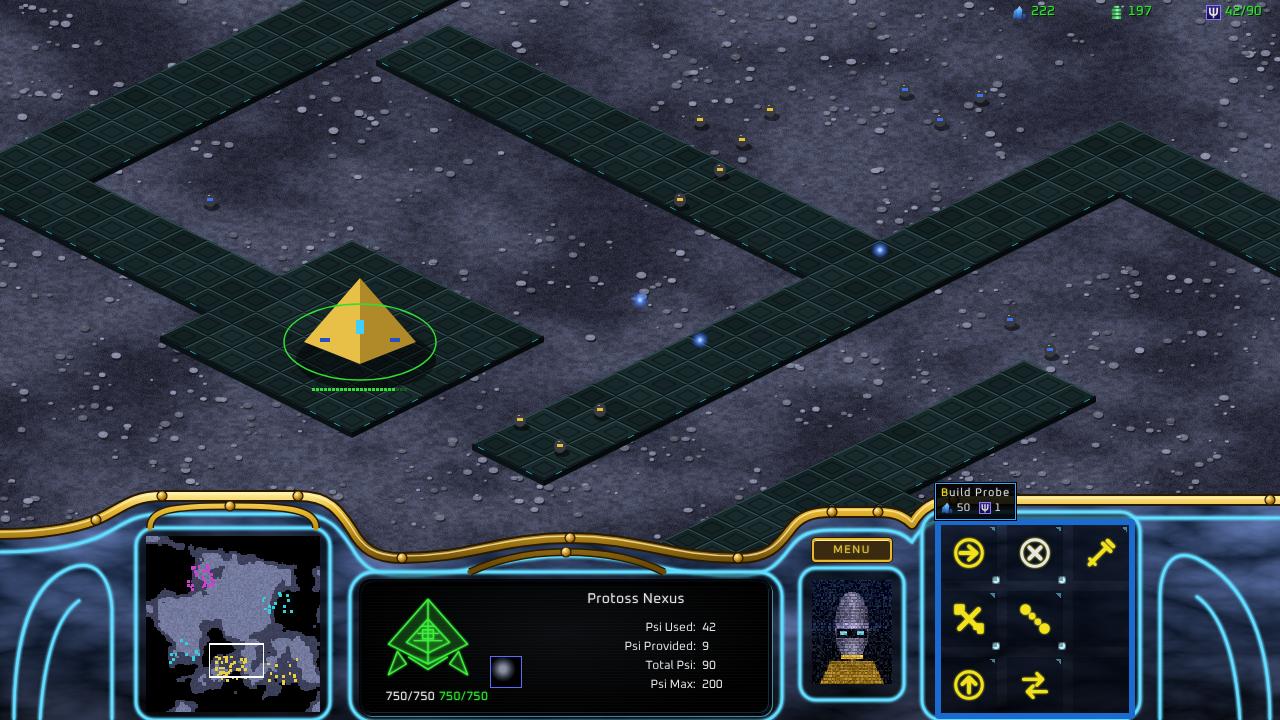
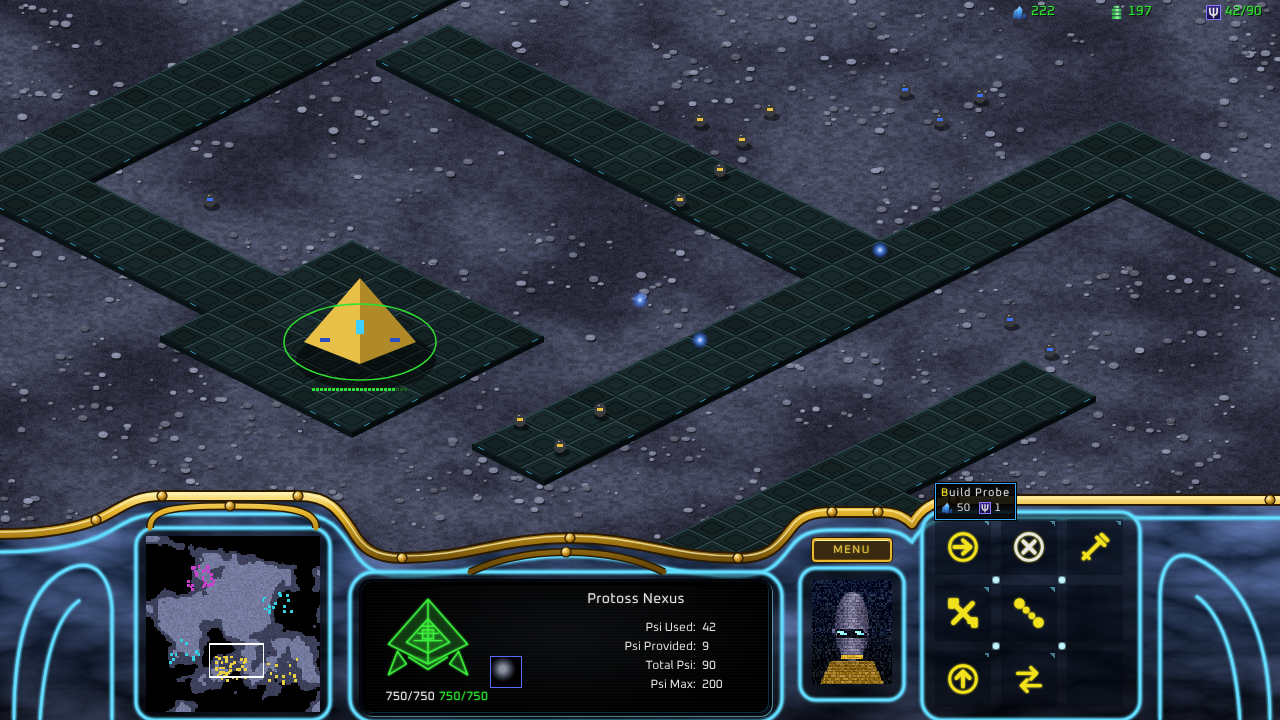
SC1 design system: components stopped at round limit
Claude-Session: https://claude.ai/code/session_01U4BJEL1DunDjrFQzZedLxi

Changed region(s): [[0.625, 0.7028, 0.9062, 1.0], [0.8125, 0.8556, 0.8438, 0.8861]]

diff --git a/sc1-design-system/js/scene.js b/sc1-design-system/js/scene.js
@@ -692,15 +692,15 @@
   var DEFS_COMMON =
     '<filter id="grime" x="0" y="0" width="1" height="1" color-interpolation-filters="sRGB">' +
       '<feTurbulence type="fractalNoise" baseFrequency="0.016 0.04" numOctaves="4" seed="4" result="a"/>' +
-      '<feColorMatrix in="a" type="matrix" values="0 0 0 0 0.52  0 0 0 0 0.38  0 0 0 0 0.26  -2.6 0 0 0 1.7" result="blot"/>' +
+      '<feColorMatrix in="a" type="matrix" values="0 0 0 0 0.5  0 0 0 0 0.42  0 0 0 0 0.34  -2.6 0 0 0 1.55" result="blot"/>' +
       '<feTurbulence type="fractalNoise" baseFrequency="0.035 0.09" numOctaves="3" seed="21" result="b"/>' +
-      '<feColorMatrix in="b" type="matrix" values="0 0 0 0 0.62  0 0 0 0 0.34  0 0 0 0 0.16  -4 0 0 0 2.25" result="rust"/>' +
+      '<feColorMatrix in="b" type="matrix" values="0 0 0 0 0.5  0 0 0 0 0.36  0 0 0 0 0.26  -4 0 0 0 1.95" result="rust"/>' +
       '<feTurbulence type="fractalNoise" baseFrequency="0.85" numOctaves="2" seed="9" result="g"/>' +
       '<feColorMatrix in="g" type="matrix" values="0 0 0 0 0.3  0 0 0 0 0.26  0 0 0 0 0.22  -1.7 0 0 0 1.1" result="grain"/>' +
       '<feMerge><feMergeNode in="blot"/><feMergeNode in="rust"/><feMergeNode in="grain"/></feMerge></filter>' +
     '<filter id="grimeHeavy" x="0" y="0" width="1" height="1" color-interpolation-filters="sRGB">' +
       '<feTurbulence type="fractalNoise" baseFrequency="0.05 0.12" numOctaves="4" seed="13" result="a"/>' +
-      '<feColorMatrix in="a" type="matrix" values="0 0 0 0 0.35  0 0 0 0 0.27  0 0 0 0 0.2  -2.2 0 0 0 1.75" result="blot"/>' +
+      '<feColorMatrix in="a" type="matrix" values="0 0 0 0 0.35  0 0 0 0 0.27  0 0 0 0 0.2  -2.2 0 0 0 1.45" result="blot"/>' +
       '<feTurbulence type="fractalNoise" baseFrequency="0.9" numOctaves="2" seed="3" result="g"/>' +
       '<feColorMatrix in="g" type="matrix" values="0 0 0 0 0.25  0 0 0 0 0.22  0 0 0 0 0.2  -2 0 0 0 1.35" result="grain"/>' +
       '<feMerge><feMergeNode in="blot"/><feMergeNode in="grain"/></feMerge></filter>' +

diff --git a/sc1-design-system/css/patterns.css b/sc1-design-system/css/patterns.css
@@ -345,7 +345,7 @@ html, body.pt-page { height: 100%; overflow: hidden; background: var(--sc-void);
   line-height: 20px;
   text-shadow: 0 0 2px rgba(240, 208, 64, 0.55);
 }
-[data-race="protoss"] .pt-cmdcard.sc-cmdcard { padding: 0; gap: 10px; background: none; box-shadow: none; }
+[data-race="protoss"] .pt-cmdcard.sc-cmdcard { padding: 0; gap: 10px; border: 0; border-radius: 0; background: none; box-shadow: none; }
 [data-race="protoss"] .pt-cmdcard .sc-cmd,
 [data-race="protoss"] .pt-cmdcard .sc-cmd--empty { background: rgba(0, 6, 18, 0.35); box-shadow: none; }
 [data-race="protoss"] .pt-screen__queue {
@@ -370,7 +370,7 @@ html, body.pt-page { height: 100%; overflow: hidden; background: var(--sc-void);
   box-shadow: 0 0 0 1px #120204;
   line-height: 20px;
 }
-[data-race="zerg"] .pt-cmdcard.sc-cmdcard { background: none; box-shadow: none; }
+[data-race="zerg"] .pt-cmdcard.sc-cmdcard { padding: 6px; gap: 6px; border: 0; background: none; box-shadow: none; }
 [data-race="zerg"] .pt-cmdcard .sc-cmd { box-shadow: 0 0 0 1px #5a2a20, inset 0 0 0 1px #000; }
 
 /* ---------- GAME MENU (plassering; utseendet kommer fra .sc-dialog--blue) ---------- */

diff --git a/sc1-design-system/TASKS.md b/sc1-design-system/TASKS.md
@@ -3,7 +3,7 @@
 Status: [ ] gjenstår · [~] pågår · [x] godkjent · [!] stoppet ved rundegrense
 
 - [x] 0. Referansebilder fra Håkon → .kritikk/referanse/sc1/ + MALESTOKK.md + css/tokens.css (orkestrator)
-- [~] A. Komponenter: css/components.css + components.html (knapper, dialoger, paneler, kommandokort, ressurslinje, wireframe, LED, skjema) – R1: rød dialog GODKJENT; blå meny (P7=6), Terran-metall (P3=5), Protoss (P3=4) AVVIST · R2 AVVIST (Terran P3=7, blå P7=7, Protoss P3=6) → runde 3 (siste)
+- [!] A. Komponenter: css/components.css + components.html (knapper, dialoger, paneler, kommandokort, ressurslinje, wireframe, LED, skjema) – R1: rød dialog GODKJENT; blå meny (P7=6), Terran-metall (P3=5), Protoss (P3=4) AVVIST · R2 AVVIST (Terran P3=7, blå P7=7, Protoss P3=6) · R3 AVVIST (blå P2=6, Terran P3=6, Protoss P3=5) → STOPPET ved rundegrense. Gjenstår: blå knappetekst for fet/hvit + diagonal bakgrunn + blå blob ved End Mission; Terran-metall for lyst; Protoss-ramme plastaktig (6px blå → 2–3px cyan), marmor mangler. NB: kritikere motsa hverandre (R2 ba om 6px rør, R3 avviste det)
 - [~] B. Mønstre: css/patterns.css + js/scene.js + patterns/main-menu.html + patterns/ingame.html (glue screen, Terran/Protoss/Zerg-konsoll, Game Menu) – R1 AVVIST (meny P8=6, Terran P3=6, Protoss P3=5) → runde 2
 - [!] C. Battle.net + lyd + forside: patterns/battlenet.html + js/sc-audio.js + index.html (tokens, typografi, lenker, rase-bytter) – R1 AVVIST (bnet P2/P7/P10=6, forside P8=4) · R2 AVVIST (bnet P9=6 «tre», forside P8=5) · R3: Battle.net GODKJENT (alle 8, likeverdig); forside AVVIST (P8=6, P10=6) → STOPPET ved rundegrense. Gjenstår: metallarm rundt nyhetspanelet, menypunkter langs planetbuen; planet/ormehull/satellitt arves fra Bs scene.js
 - [!] D. Briefing: patterns/briefing.html + css/briefing.css + js/briefing.js – R1 AVVIST (P11=6) · R2 AVVIST (P2/P7=8, P10/P11=7: rommet for rent) · R3 AVVIST (P1/P7/P10/P11=7, P2=8) → STOPPET ved rundegrense. Gjenstår: fliser ser ut som stein, rust nederst ser ut som blod, maskin for symmetrisk, tekstfelt-header for moderne «HUD», lyse portrettrammer
